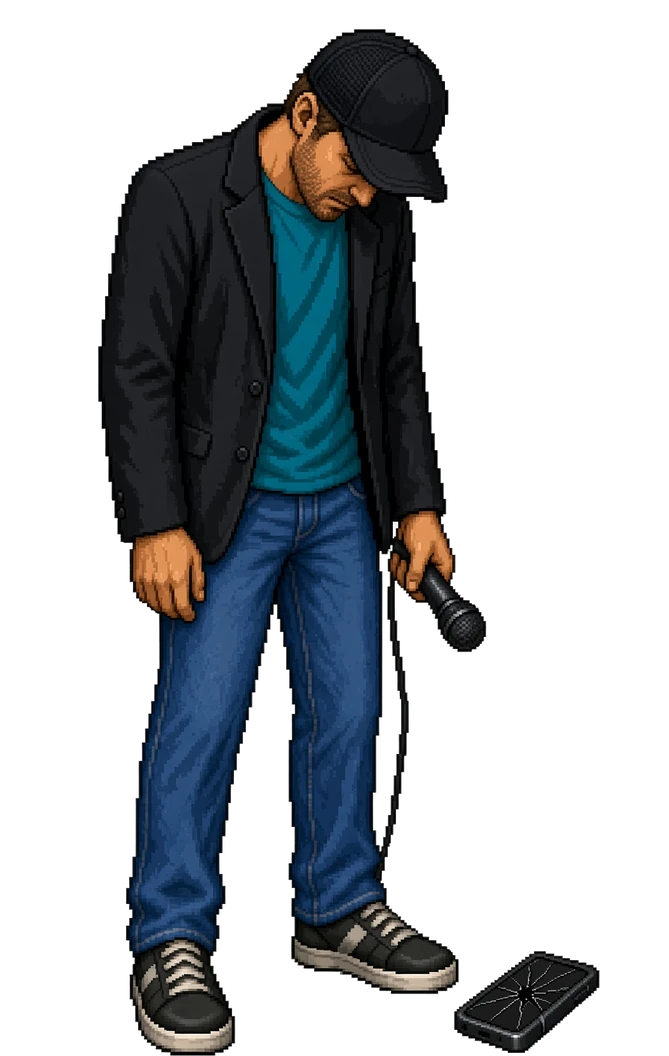
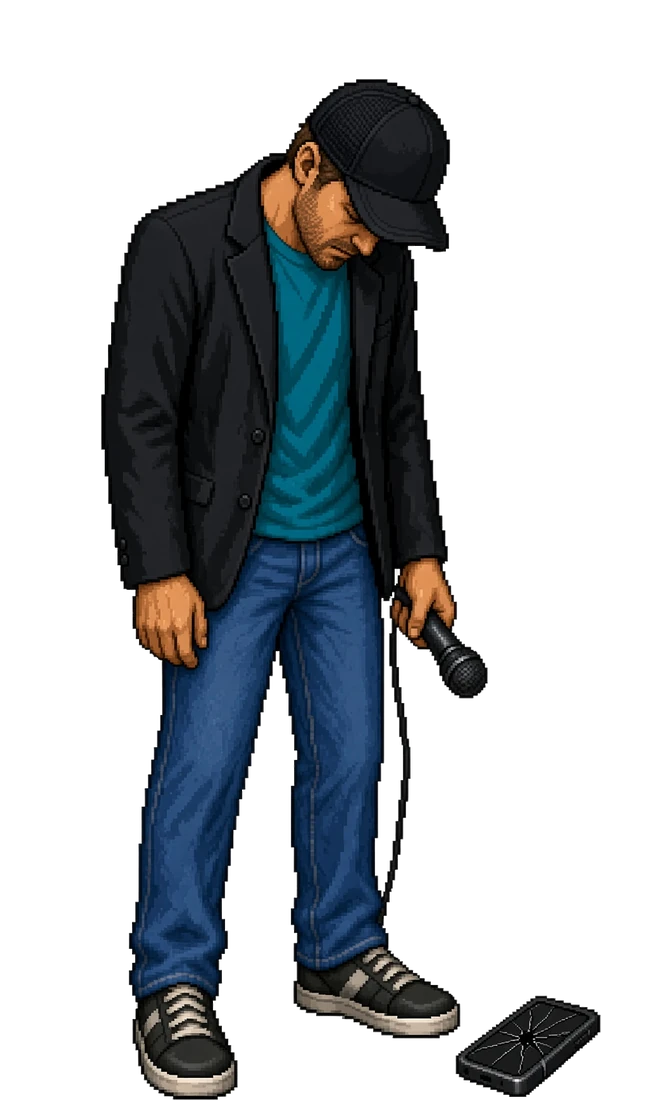
Rap Battle: draw both rappers at their real heights
Every pose of every rapper now sits on one 670x1100 canvas at one scale,
15 px per inch of real height: tools/poses.py takes --height (inches) and
sizes the set so the upright --ref pose (listen) stands that tall. Toly is
5'10" and Vitalik 6'1", so Vitalik stands three inches taller, and the
stage draws them at the same scale on any screen size (before, each rapper
had his own canvas size, so their relative size depended on the layout).

Claude-Session: https://claude.ai/code/session_01MrmWoR9r6Hspbo7S7Wp3Cy

diff --git a/tools/poses.py b/tools/poses.py
@@ -1,18 +1,22 @@
 #!/usr/bin/env python3
-"""Rap Battle poses: cut out a rapper's Grok poses and put them, with his stage sprite, on one canvas.
+"""Rap Battle poses: cut out a rapper's Grok poses and put them, with his stage sprite, on the stage canvas.
 Needs Pillow: pip install pillow
 
   python3 tools/poses.py toly rap=toly-rap.jpg listen=toly-listen.jpg lose=toly-lose.jpg win=toly-win.jpg \\
-      --shirt 005c74 --scale listen=1.1 --scale lose=1.07 --scale win=1.08 --flip win --gap lose=668,868
+      --height 70 --shirt 005c74 --scale listen=1.1 --scale lose=1.07 --scale win=1.08 --flip win --gap lose=668,868
 
-Writes art/<id>-<pose>.webp for each pose, plus art/<id>-stand.webp (his stage sprite, art/<id>-body.webp),
-all the same size, so the rapper doesn't grow, shrink or slide when the pose changes:
+Writes art/<id>-<pose>.webp for each pose, plus art/<id>-stand.webp (his stage sprite, art/<id>-body.webp).
+Every rapper's every pose is drawn at one scale on one canvas size, so the rapper doesn't grow, shrink or slide
+when the pose changes, and a taller rapper stands taller than his opponent:
 - Each pose is cut like `art.py body` (background out, trimmed, 960 tall), then resized by its --scale.
   Grok fits every pose to the frame, so an upright pose comes back drawn smaller than a crouched one; the
   scale puts the person back at the stage sprite's size (compare heads, shoes and shirt with it).
-- Feet sit on the bottom edge, and the shirt (--shirt, its main color) lines up across the poses.
+- Then the whole set is resized so the --ref pose (upright, nothing held above the head) stands --height
+  inches tall at PPI pixels per inch. A crouched pose ends up shorter, as a crouching person does.
+- Feet sit on the bottom edge, and the shirt (--shirt, its main color) lines up across his poses.
 - --flip mirrors a pose Grok drew facing left.
 White pockets are listed per pose, as with art.py; clear one with --gap pose=x,y (source pixels).
+If his poses don't fit the canvas, make CANVAS bigger, then rerun every rapper (docs/art/README.md).
 """
 import argparse
 import os
@@ -22,6 +26,9 @@ from PIL import Image
 sys.dont_write_bytecode = True  # importing art.py shouldn't leave a cache in tools/
 sys.path.insert(0, os.path.dirname(os.path.abspath(__file__)))
 import art  # noqa: E402
+
+PPI = 15             # canvas pixels per inch of real height, the same for every rapper
+CANVAS = (670, 1100)  # every pose canvas, so the stage draws every rapper at one scale
 
 
 def shirt_x(im, color, tol=60):
@@ -43,6 +50,8 @@ def main():
     ap = argparse.ArgumentParser(description=__doc__, formatter_class=argparse.RawDescriptionHelpFormatter)
     ap.add_argument('id')
     ap.add_argument('poses', nargs='+', help='pose=source image (rap, listen, lose, win)')
+    ap.add_argument('--height', type=float, required=True, help='his real height in inches (5\'10" = 70)')
+    ap.add_argument('--ref', default='listen', help='the upright pose that stands --height tall (default listen)')
     ap.add_argument('--shirt', required=True, help='RRGGBB: the shirt color the poses line up on')
     ap.add_argument('--scale', action='append', default=[], help='pose=factor against the stage sprite')
     ap.add_argument('--flip', action='append', default=[], help='a pose to mirror')
@@ -57,29 +66,36 @@ def main():
         name, xy = g.split('=')
         gaps.setdefault(name, []).append(tuple(int(v) for v in xy.split(',')))
 
-    figs = [('stand', Image.open(os.path.join(args.out, args.id + '-body.webp')).convert('RGBA'))]
+    # The stage sprite is 960 tall and every --scale is against it, so the ref pose is 960 * its scale tall.
+    grow = args.height * PPI / (art.BODY_HEIGHT * scales.get(args.ref, 1))
+    stand = Image.open(os.path.join(args.out, args.id + '-body.webp')).convert('RGBA')
+    figs = [('stand', stand.resize((round(stand.size[0] * grow), round(stand.size[1] * grow)), Image.LANCZOS))]
     for spec in args.poses:
         name, src = spec.split('=', 1)
         im = art.cut_background(Image.open(src).convert('RGBA'), gaps.get(name, []))
         for area, seed, box in art.pockets(im, im.size[0] * im.size[1] // 2000):
             print('%s: white pocket %6d px at --gap %s=%d,%d  (box %s)' % (name, area, name, seed[0], seed[1], box))
         im = im.crop(im.getbbox())
-        k = art.BODY_HEIGHT / im.size[1] * scales.get(name, 1)
+        k = art.BODY_HEIGHT / im.size[1] * scales.get(name, 1) * grow
         im = im.resize((round(im.size[0] * k), round(im.size[1] * k)), Image.LANCZOS)
         if name in args.flip:
             im = im.transpose(Image.FLIP_LEFT_RIGHT)
         figs.append((name, im))
 
+    width, height = CANVAS
     xs = [shirt_x(im, color) for _, im in figs]
-    left = max(xs)
-    width = left + max(im.size[0] - x for (_, im), x in zip(figs, xs))
-    height = max(im.size[1] for _, im in figs)
+    left, right = max(xs), max(im.size[0] - x for (_, im), x in zip(figs, xs))
+    tall = max(im.size[1] for _, im in figs)
+    print('%s needs %dx%d (%d left of the shirt, %d right)' % (args.id, left + right, tall, left, right))
+    if left + right > width or tall > height:
+        sys.exit('that doesn\'t fit the %dx%d CANVAS' % CANVAS)
+    left += (width - left - right) // 2
     for (name, im), x in zip(figs, xs):
         canvas = Image.new('RGBA', (width, height), (0, 0, 0, 0))
         canvas.alpha_composite(im, (left - x, height - im.size[1]))
         path = os.path.join(args.out, '%s-%s.webp' % (args.id, name))
         canvas.save(path, 'WEBP', quality=90, method=6)
-        print('%s: %dx%d' % (path, width, height))
+        print('  %s' % path)
 
 
 if __name__ == '__main__':

diff --git a/docs/art/README.md b/docs/art/README.md
@@ -189,11 +189,11 @@ python3 tools/art.py body adeniyi-sprite.jpg art/adeniyi-body.webp
 
 Mert's head filled the top of the frame, so his crop starts above the image (the extra space is transparent) to keep the round frames from clipping his dome. The two white pockets the tool listed on his sprite are his sneakers, so they stay. Garlinghouse's pocket was a thin sliver of background between his sleeve and his jacket, so it was cleared. Portraits never flood in from the bottom edge, since that's always clothing (his white shirt would have been erased). Adam's portrait pocket was background seen through his glasses past his cheek, and his cap touched the top of the image, so he got Mert's extra headroom too. Charles's hat brim ran wide, so his crop uses the whole image. Sergey's portrait came back taller than wide (1264×1568), so his crop picks a square: the full width minus a little, from the top down to his collar. The white pockets listed on him are the plaid's white squares and his badge, so they stay. CZ's and Adeniyi's heads touched the top of the frame, so they got Mert's headroom; Adeniyi's portrait pocket was background seen through his glasses past his cheek (cleared, like Adam's), and the pockets on his sprite are his white sneakers (kept). A crop can also reach past an edge to zoom out (write `--crop=` with an equals sign when a number starts with a minus), but only past edges the art doesn't touch: his first crop reached past the bottom and right, where his shirt runs off the image, and left a strip of his red showing under it. The tool now warns about that.
 
-**Rap Battle poses** (`?rap`): each rapper gets four Grok poses, rap, listen, lose and win (prompts in the project's `rap-battle/prompts.md`). `tools/poses.py` cuts them out like `body` and puts them, plus the stage sprite as `stand`, on one canvas, so the rapper keeps his size and spot when the pose changes. Grok fits every pose to its frame, so an upright pose comes back drawn smaller than a crouched one: `--scale` sizes each pose against the stage sprite (compare the head, shoes and shirt), and `--shirt` (the shirt's main color) lines them up side to side. A pose Grok drew facing left gets `--flip`. Then list them in `POSES` in `js/rap.js`.
+**Rap Battle poses** (`?rap`): each rapper gets four Grok poses, rap, listen, lose and win (prompts in the project's `rap-battle/prompts.md`). `tools/poses.py` cuts them out like `body` and puts them, plus the stage sprite as `stand`, on the stage canvas, so the rapper keeps his size and spot when the pose changes. Grok fits every pose to its frame, so an upright pose comes back drawn smaller than a crouched one: `--scale` sizes each pose against the stage sprite (compare the head, shoes and shirt), and `--shirt` (the shirt's main color) lines them up side to side. A pose Grok drew facing left gets `--flip`. `--height` is his real height in inches: the whole set is sized so his upright `--ref` pose (listen by default) stands that tall at 15 px per inch, and every rapper shares one canvas size (`CANVAS` in the script), so the stage shows Vitalik at 6'1" three inches taller than Toly at 5'10". If a new rapper doesn't fit the canvas, the script says so: make `CANVAS` bigger and rerun every rapper. Then list them in `POSES` in `js/rap.js`.
 
 ```
-python3 tools/poses.py toly rap=toly-rap.jpg listen=toly-listen.jpg lose=toly-lose.jpg win=toly-win.jpg --shirt 005c74 --scale listen=1.1 --scale lose=1.07 --scale win=1.08 --flip win --gap lose=668,868
-python3 tools/poses.py vitalik rap=vitalik-rap.jpg listen=vitalik-listen.jpg lose=vitalik-lose.jpg win=vitalik-win.jpg --shirt 58348c --scale listen=1.12 --scale lose=0.95 --scale win=1.1 --gap rap=568,440 --gap lose=448,492 --gap win=468,596 --gap win=580,332
+python3 tools/poses.py toly rap=toly-rap.jpg listen=toly-listen.jpg lose=toly-lose.jpg win=toly-win.jpg --height 70 --shirt 005c74 --scale listen=1.1 --scale lose=1.07 --scale win=1.08 --flip win --gap lose=668,868
+python3 tools/poses.py vitalik rap=vitalik-rap.jpg listen=vitalik-listen.jpg lose=vitalik-lose.jpg win=vitalik-win.jpg --height 73 --shirt 58348c --scale listen=1.12 --scale lose=0.95 --scale win=1.1 --gap rap=568,440 --gap lose=448,492 --gap win=468,596 --gap win=580,332
 ```
 
 Toly's lose pocket was the background between his mic cord and his leg; Vitalik's were the gaps between his arms and his body. Vitalik's head-down lose pose came back drawn bigger than his stage sprite, so it scales down. His unicorn is a handy size check, since it's the same graphic in every pose.

diff --git a/GAMEPLAN.md b/GAMEPLAN.md
@@ -21,7 +21,7 @@ A hidden test mode at `proofoffight.com/?rap`: a **Rap Battle** button appears o
 - **The decision:** the host points at the loser first (scattered cheers and boos), then the winner (a roar). The needle decides who is who.
 - **Lyrics:** 26 or 27 couplets per rapper (8 corny safe ones, 10 or 11 spicy, 7 or 9 nuclear) plus a closer and the host's intro line, drawn without repeats, in `js/rap-lyrics.js`.
 - The rappers and host "talk" in chiptune babble (a blip per syllable, on the beat). No real or cloned voices.
-- **Poses:** each rapper gets four Grok poses: rap, listen, lose and win (prompts in the project's `rap-battle/prompts.md`, made into sprites with `tools/poses.py`). Toly scrolls his phone while the other rapper raps, drops it when he loses, and mic-drops when he wins. Vitalik points at his rival when he raps, crosses his arms to listen, spills his tea when he loses, and takes a smug sip when he wins. A rapper without poses leans, dims or slumps his stage sprite instead. The host's hype and point poses are still to come.
+- **Poses:** each rapper gets four Grok poses: rap, listen, lose and win (prompts in the project's `rap-battle/prompts.md`, made into sprites with `tools/poses.py`). Toly scrolls his phone while the other rapper raps, drops it when he loses, and mic-drops when he wins. Vitalik points at his rival when he raps, crosses his arms to listen, spills his tea when he loses, and takes a smug sip when he wins. Every rapper is drawn to one scale at his real height (Toly 5'10", Vitalik 6'1"), so the taller one stands taller in every pose. A rapper without poses leans, dims or slumps his stage sprite instead. The host's hype and point poses are still to come.
 - Code: `js/rap.js`, `js/rap-lyrics.js`, `css/rap.css`. Nothing changes without `?rap`.
 
 ### Oct 7, 2026: CZ and Adeniyi join the roster
